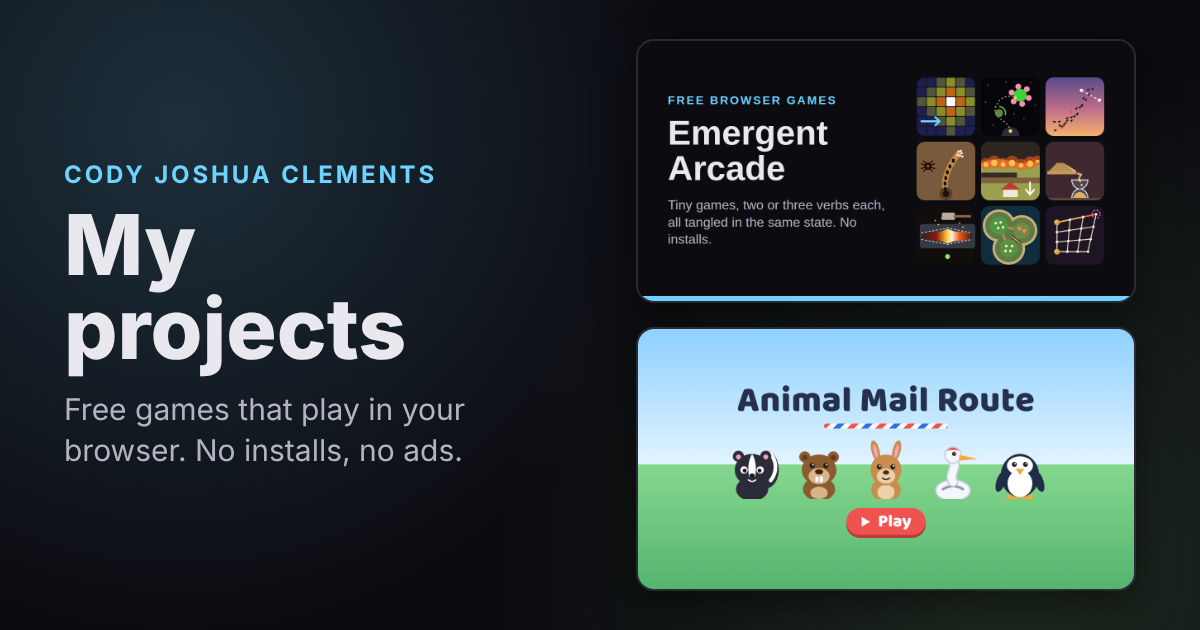
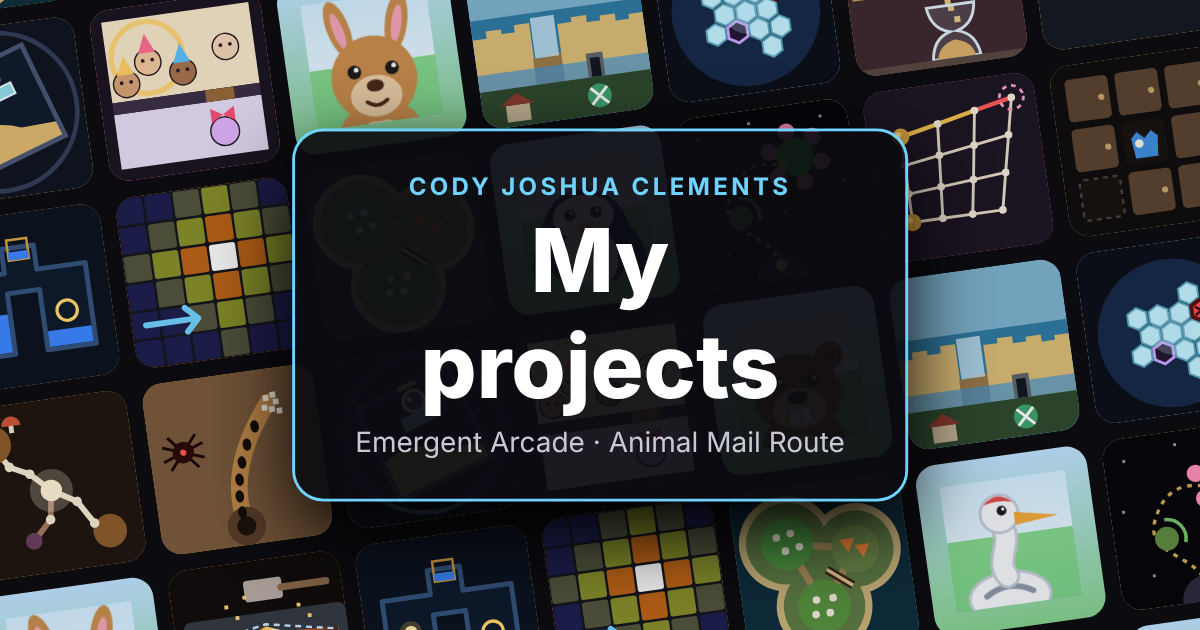
Share image: game wall design
Claude-Session: https://claude.ai/code/session_01EnNUn3ny5gn2NEE73WVojz

diff --git a/index.html b/index.html
@@ -9,10 +9,10 @@
 <meta property="og:description" content="Free browser games: Emergent Arcade and Animal Mail Route. No installs, no ads.">
 <meta property="og:type" content="website">
 <meta property="og:url" content="https://avatar-coco-love.github.io/">
-<meta property="og:image" content="https://avatar-coco-love.github.io/share.png">
+<meta property="og:image" content="https://avatar-coco-love.github.io/share.png?v=2">
 <meta property="og:image:width" content="1200">
 <meta property="og:image:height" content="630">
-<meta property="og:image:alt" content="My projects by Cody Joshua Clements: Emergent Arcade and Animal Mail Route">
+<meta property="og:image:alt" content="My projects by Cody Joshua Clements: Emergent Arcade and Animal Mail Route, over a wall of game tiles and animals">
 <meta name="twitter:card" content="summary_large_image">
 <style>
   :root {
